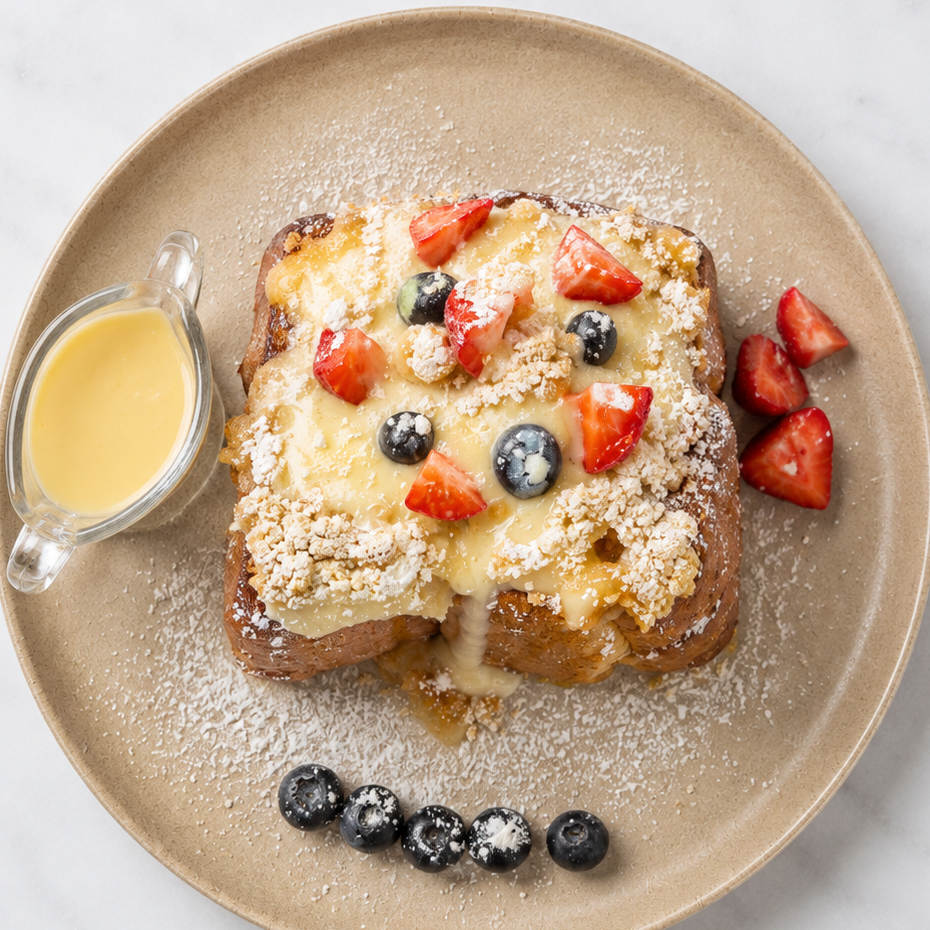
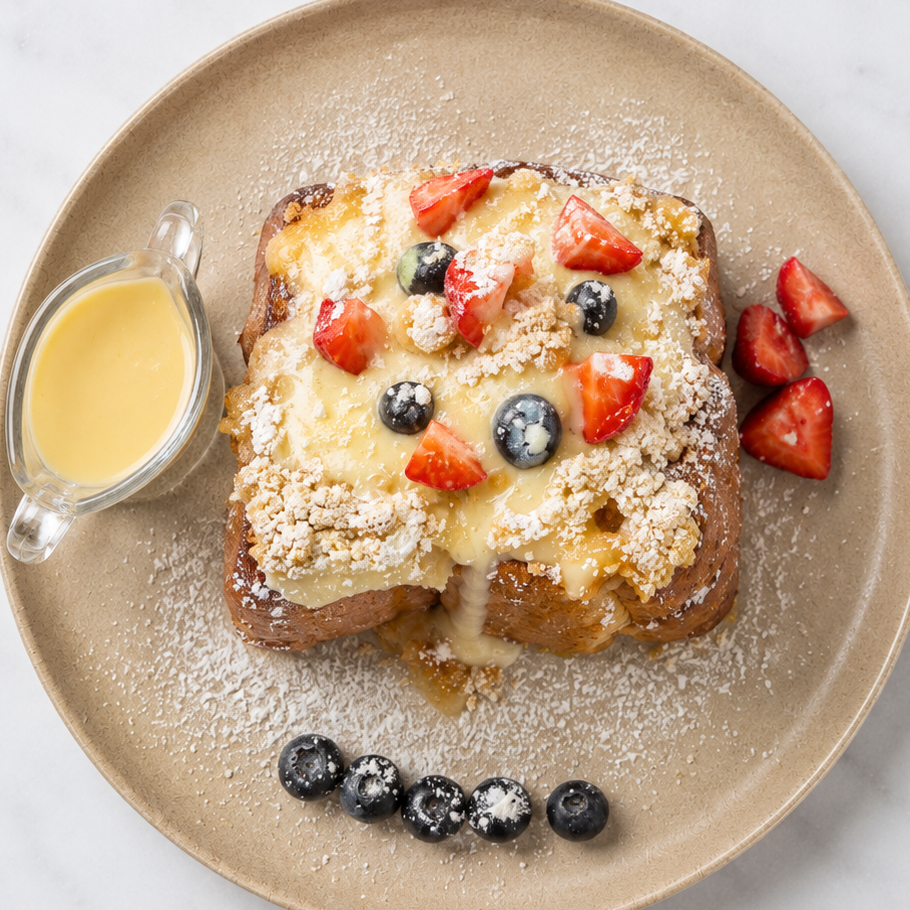
Fix plate crops showing marble and reduce rotation amount
The three circle crops were sized from eyeballed grid coordinates and
were bigger than the actual plates in places, so the circular mask
showed slivers of marble table at the edges (worst on plate-3). Redid
all three by numerically scanning zoomed edge crops to find the real
plate boundary on all four sides, then sized/centered each crop to
that measurement. All three now fill their circle edge-to-edge with no
background showing.

Also cut the scroll-tied rotation from a full 360 spin down to a
14-degree tilt (alternating direction per plate, unchanged) - the full
spin read as too much motion for what's meant to be a restrained
reveal.

diff --git a/components/SignatureDishes.tsx b/components/SignatureDishes.tsx
@@ -13,19 +13,19 @@ const dishes = [
     src: "/images/plate-3-circle.png",
     title: "Avocado & Poached Egg",
     description: "Sourdough, whipped avocado, poached egg, cherry tomato, toasted seeds.",
-    spin: 360,
+    spin: 14,
   },
   {
     src: "/images/plate-2-circle.png",
     title: "Grilled Chicken & Rice",
     description: "Herb-marinated chicken, jasmine rice, garden salad.",
-    spin: -360,
+    spin: -14,
   },
   {
     src: "/images/plate-1-circle.png",
     title: "Berry French Toast",
     description: "Brioche, mascarpone, strawberries, blueberries, maple.",
-    spin: 360,
+    spin: 14,
   },
 ];
 
